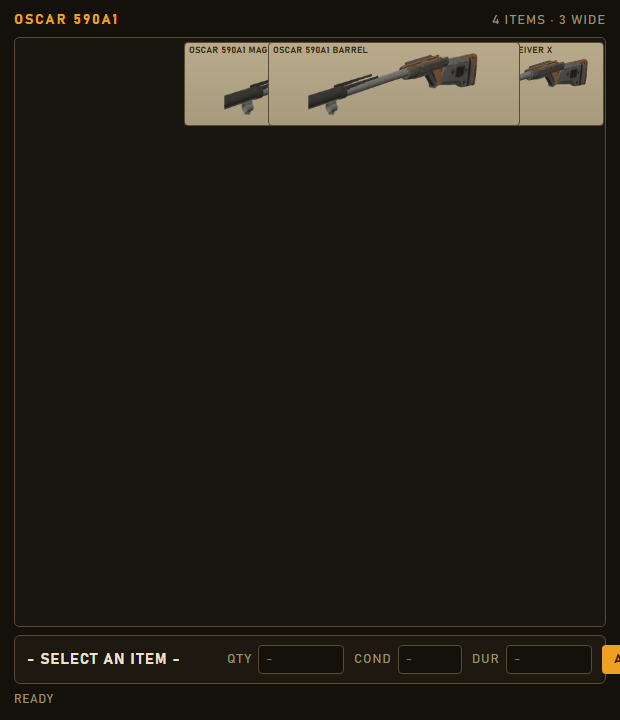
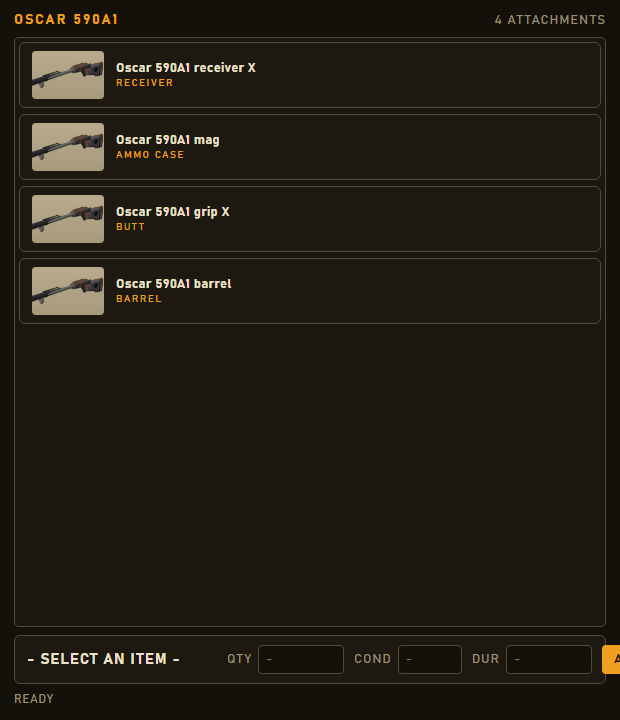
Weapon attachments view: list parts as named slots, not a grid container
Guns opened in the generic grid pop-out, which tiled the wide part-renders so
they overlapped. A weapon is not storage; detect it by VisualName and render its
parts as a labeled attachment list (still editable via the edit bar).

Changed region(s): [[0.0306, 0.0, 0.9806, 0.4583]]

diff --git a/app/src/components/ContainerWindow.tsx b/app/src/components/ContainerWindow.tsx
@@ -1,4 +1,4 @@
-import { Show, createMemo, createSignal, onCleanup, onMount } from "solid-js";
+import { For, Show, createMemo, createSignal, onCleanup, onMount } from "solid-js";
 import {
   applyItem, broadcastChange, copyItem, currentSnapshot, deleteItems, moveItem,
   onStateChanged, openContainerWindow, pasteItem, repairItems,
@@ -7,6 +7,32 @@ import {
 import VaultGrid from "./VaultGrid";
 import EditBar from "./EditBar";
 import ContextMenu, { type MenuItem } from "./ContextMenu";
+import { resolveIcon, iconUrl } from "../icons";
+import { conditionFrac } from "../layout";
+
+// A weapon isn't storage: its children are attachments (barrel, mag, receiver…),
+// not free-placement grid cargo. We detect it by VisualName and render a slot
+// list instead of the grid pop-out (which tiled the wide part-renders so they
+// overlapped). Nested items carry no `slot`, so VisualName is the only signal.
+const isWeaponVisual = (v: string): boolean => /(^|\/)Weapons\//i.test(v);
+
+// Same fallback chain as ItemTile: real render -> category icon -> generic.
+const imgSources = (it: ItemView): string[] => [
+  `/sprites/items/${it.templateId}.webp`,
+  iconUrl(resolveIcon(it.visualName, it.name)),
+  iconUrl("Icon_Surplus"),
+];
+
+// Canonical part type from the prefab name: drop the weapon-family token and any
+// version suffix, humanize camelCase. "Oscar_AmmoCase" -> "Ammo Case".
+const partLabel = (visualName: string): string => {
+  const base = visualName.split("/").pop()?.replace(/\.prefab$/i, "") ?? "";
+  const toks = base.split("_").filter((t) => t && !/^\d+$/.test(t) && t.length > 1);
+  const rest = toks.length > 1 ? toks.slice(1) : toks;
+  return rest.join(" ").replace(/([a-z])([A-Z])/g, "$1 $2") || "Part";
+};
+
+const barColor = (f: number): string => (f > 0.5 ? "var(--good)" : f > 0.2 ? "var(--amber)" : "var(--danger)");
 
 interface Props {
   source: Source;
@@ -56,6 +82,15 @@ export default function ContainerWindow(p: Props) {
     const c = snap()?.containers.find((c) => c.source === p.source && c.ownerItemId === p.ownerId);
     return c?.gridWidth ?? undefined;
   });
+  // The container's owner item, to tell a weapon (attachment list) from real
+  // storage (grid). The owner lives in the same source array as its children.
+  const owner = createMemo<ItemView | null>(() => {
+    const s = snap();
+    if (!s) return null;
+    const arr = p.source === "inventory" ? s.inventory : p.source === "equipment" ? s.equipment : s.shelter;
+    return arr.find((it) => it.id === p.ownerId) ?? null;
+  });
+  const isWeapon = createMemo(() => isWeaponVisual(owner()?.visualName ?? ""));
   const selected = createMemo(() => children().find((it) => it.id === selId()) ?? null);
   const category = (it: ItemView | null) => (it ? it.visualName.split("/")[0] || "Item" : "");
 
@@ -123,16 +158,47 @@ export default function ContainerWindow(p: Props) {
     <div class="app cwin">
       <div class="pane-head">
         <span class="h">{p.label.toUpperCase()}</span>
-        <span class="sub">{children().length} ITEMS{cols() ? ` · ${cols()} WIDE` : ""}</span>
+        <span class="sub">
+          {children().length} {isWeapon() ? "ATTACHMENTS" : `ITEMS${cols() ? ` · ${cols()} WIDE` : ""}`}
+        </span>
       </div>
       <div class="scroll cwin-scroll">
         <Show when={snap()} fallback={<div class="modal-empty">{status()}</div>}>
-          <Show when={children().length} fallback={<div class="modal-empty">This container is empty.</div>}>
-            <VaultGrid items={children()} cols={cols()} selectedIds={selIds()}
-              onSelect={(id, additive) => (additive ? toggleSel(id) : setSel(id))}
-              onSelectBox={(ids) => setSelIds(ids)}
-              onMove={onMoveItem} onActivate={onActivate}
-              onContextMenu={(id, x, y) => setMenu({ id, x, y })} />
+          <Show when={children().length}
+            fallback={<div class="modal-empty">{isWeapon() ? "No attachments." : "This container is empty."}</div>}>
+            <Show when={isWeapon()} fallback={
+              <VaultGrid items={children()} cols={cols()} selectedIds={selIds()}
+                onSelect={(id, additive) => (additive ? toggleSel(id) : setSel(id))}
+                onSelectBox={(ids) => setSelIds(ids)}
+                onMove={onMoveItem} onActivate={onActivate}
+                onContextMenu={(id, x, y) => setMenu({ id, x, y })} />
+            }>
+              <div class="attach-list">
+                <For each={children()}>
+                  {(it) => {
+                    const srcs = imgSources(it);
+                    let step = 0;
+                    const frac = () => conditionFrac(it);
+                    return (
+                      <div class="attach-row" classList={{ sel: selIds().includes(it.id) }}
+                        onClick={(e) => (e.ctrlKey ? toggleSel(it.id) : setSel(it.id))}
+                        onDblClick={() => onActivate(it.id)}
+                        onContextMenu={(e) => { e.preventDefault(); setSel(it.id); setMenu({ id: it.id, x: e.clientX, y: e.clientY }); }}>
+                        <img class="attach-ico" src={srcs[0]} draggable={false}
+                          onError={(e) => { step += 1; if (step < srcs.length) (e.currentTarget as HTMLImageElement).src = srcs[step]; }} />
+                        <div class="attach-text">
+                          <div class="attach-name">{it.name}</div>
+                          <div class="attach-slot">{partLabel(it.visualName)}</div>
+                        </div>
+                        <Show when={frac() !== null}>
+                          <div class="attach-bar"><span style={{ width: `${frac()! * 100}%`, background: barColor(frac()!) }} /></div>
+                        </Show>
+                      </div>
+                    );
+                  }}
+                </For>
+              </div>
+            </Show>
           </Show>
         </Show>
       </div>

diff --git a/app/src/theme.css b/app/src/theme.css
@@ -263,6 +263,27 @@ input:focus { outline: none; border-color: var(--amber); }
 .cwin-scroll { flex: 1; }
 .modal-empty { color: var(--textdim); padding: 30px; text-align: center; letter-spacing: 1px; }
 
+/* ---- weapon attachments (not a storage grid) ---- */
+.attach-list { display: flex; flex-direction: column; gap: 6px; padding: 4px; }
+.attach-row {
+  display: flex; align-items: center; gap: 12px; padding: 8px 12px;
+  background: var(--panel); border: 1px solid var(--slot-brd); border-radius: 6px; cursor: pointer;
+}
+.attach-row:hover { border-color: var(--amber-dim); }
+.attach-row.sel { border: 2px solid var(--amber); box-shadow: 0 0 0 1px var(--amber) inset; }
+.attach-ico {
+  width: 72px; height: 48px; flex: none; object-fit: contain;
+  background: linear-gradient(180deg, var(--slot-top), var(--slot)); border-radius: 4px;
+}
+.attach-text { flex: 1; min-width: 0; }
+.attach-name {
+  color: var(--cream); font-weight: 700; font-size: 13px; letter-spacing: .3px;
+  white-space: nowrap; overflow: hidden; text-overflow: ellipsis;
+}
+.attach-slot { color: var(--amber); font-size: 10px; letter-spacing: 1.5px; text-transform: uppercase; }
+.attach-bar { width: 80px; flex: none; height: 4px; background: #2a2114; border-radius: 2px; overflow: hidden; }
+.attach-bar > span { display: block; height: 100%; }
+
 /* ---- character panel ---- */
 .charpanel { flex: 1; display: flex; flex-direction: column; min-height: 0; }
 .charpanel-body { padding: 12px; display: flex; gap: 14px; flex-wrap: wrap; align-content: flex-start; }
